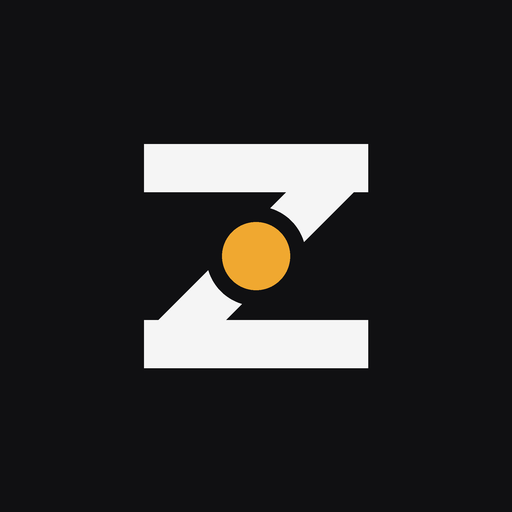
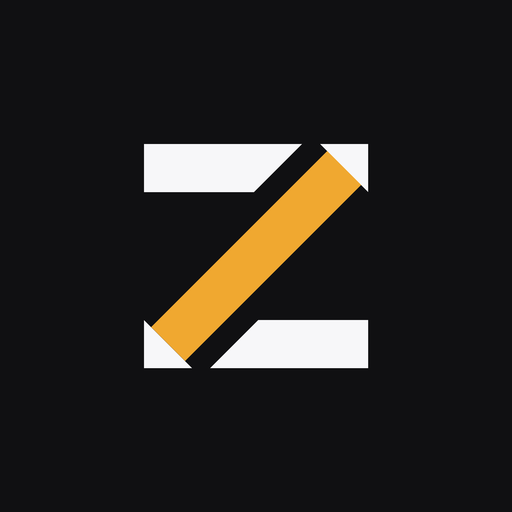
feat(zeno): el icono, segunda vuelta, con la diagonal ambar cruzando
El operador rechazo el primero: *"el logo se ve muy pobre"*. Tenia razon y el
diagnostico es concreto: era una Z de tres barras del mismo grosor, sin ninguna
idea dentro. Los dos vecinos si la tienen, y por eso funcionan: Zenvrax juega con
dos pesos y remata con un punto, Xrise convierte un brazo de la X en flecha.

Elegido de cuatro propuestas mirandolas a 140 y a 48px: dos barras blancas y la
diagonal en AMBAR cruzando por encima, con aire negro a los lados. Es el mismo
recurso que el cockpit, donde la X verde pasa sobre las barras: dos pesos y dos
colores, que es lo que hace que un glifo se lea de lejos.

El favicon va ENTERO en ambar: a 32px los dos colores se empastan y la Z deja de
leerse. Abierto el PNG se veia una mancha. Un favicon no es el icono grande
reducido.

El manifiesto cambia su ?v= porque el navegador sirve el icono viejo de su cache.
Y para la PWA ya instalada no basta: hay que desinstalar y volver a instalar, como
paso con Xrise en septiembre.

diff --git a/marca/genera_iconos.py b/marca/genera_iconos.py
@@ -1,80 +1,81 @@
 # -*- coding: utf-8 -*-
-"""La opcion C elegida por el operador, afinada para que aguante los 48px.
+"""El icono de Zeno. Se GENERA, nunca se edita a mano.
 
-Al ensenarle las cuatro le dije que en la C el punto casi desaparece a 48px, que es el tamano al que
-se mira en la pantalla de inicio. Eligio la C, asi que el trabajo ahora es que eso deje de ser
-verdad, no repetir la pega: el punto crece, el anillo que lo separa de la Z se ajusta para que no
-parta la diagonal, y se comprueba ABRIENDO el png a 48, no calculandolo.
+    python lab/zeno/marca/genera_iconos.py
+
+EL DISEÑO, elegido por el operador el 2026-09-27 en segunda vuelta: dos barras blancas y la
+diagonal en AMBAR cruzando por encima, con un hueco de aire a los lados.
+
+Es el mismo recurso que usa el icono del cockpit, donde la X verde cruza sobre las barras blancas:
+dos pesos y dos colores, que es lo que hace que un glifo se lea de lejos. La primera version era una
+Z de tres barras del mismo grosor, y el operador la rechazo con razon: *"el logo se ve muy pobre"*.
+No tenia ninguna idea dentro, mientras que Zenvrax juega con dos pesos y un punto, y Xrise convierte
+un brazo de la X en flecha.
+
+El AMBAR no esta en ninguno de los dos iconos vecinos (Zenvrax es verde lima, Xrise morado y cian),
+asi que los tres se distinguen en la misma pantalla de inicio.
+
+TRES COSAS QUE SALIERON DE ABRIR LOS PNG, no de calcularlos:
+
+1. La diagonal salia mas fina que las barras cuando se dibujaba con un poligono desplazado en
+   horizontal: en una diagonal de 25 grados, ese desplazamiento no es el grosor. Se dibuja con
+   `line(width=)`, que si da el grosor perpendicular.
+2. El maskable se leia como una C. Android le recorta un circulo, asi que el glifo se mete en la
+   zona segura; el hueco de aire tiene que encogerse CON el, no quedarse con su tamaño de siempre.
+3. A 32px el aire negro alrededor de la diagonal se come la letra. El favicon va SIN hueco y con la
+   diagonal tocando las barras: un favicon no es el icono grande reducido, es una version
+   simplificada a proposito.
 """
 from PIL import Image, ImageDraw
 
-E = 4
+E = 6                      # se dibuja a 6x y se reduce: la diagonal pide muestreo
 NEGRO = (16, 16, 18)
-BLANCO = (245, 245, 245)
+BLANCO = (247, 247, 249)
 AMBAR = (240, 168, 48)
 
-
-def zeno(lado=192, punto=13, anillo=20, maskable=False):
-    """El icono. `punto` y `anillo` en unidades de 192 para poder probar tamanos."""
-    img = Image.new("RGBA", (lado * E, lado * E), (0, 0, 0, 0))
-    d = ImageDraw.Draw(img)
-    caja = [0, 0, lado * E - 1, lado * E - 1]
-    if maskable:
-        # maskable: el sistema recorta un circulo, asi que el fondo llena el cuadrado entero y el
-        # glifo se encoge para caber en la zona segura (el 80% central).
-        d.rectangle(caja, fill=NEGRO)
-    else:
-        d.rounded_rectangle(caja, radius=int(lado * E * 0.22), fill=NEGRO)
-
-    k = lado / 192.0
-    if maskable:
-        margen = 54          # Android le recorta un circulo: el glifo se mete en la zona segura
-    elif lado <= 48:
-        # A 32px el margen normal se come la letra. Los favicon se dibujan mas llenos a proposito:
-        # no son el icono grande reducido, son una version simplificada.
-        margen = 16
-    else:
-        margen = 40
-    # El punto tiene que encogerse CON el glifo, no con el lienzo. Sin esto, el maskable salia con
-    # la Z reducida y el punto del tamano de siempre: se comia la diagonal entera y la letra se leia
-    # como una C. Se vio abriendo el PNG de 512, no calculandolo.
-    encoge = (192 - 2 * margen) / (192 - 2 * 40)
-    g = int(24 * k * E * encoge)
-    i, f = int(margen * k * E), int((192 - margen) * k * E)
-    a, b = int(margen * k * E), int((192 - margen) * k * E)
-    tinta = AMBAR if lado <= 48 else BLANCO
-    d.rectangle([i, a, f, a + g], fill=tinta)
-    d.rectangle([i, b - g, f, b], fill=tinta)
-    d.line([(f - g // 2, a + g // 2), (i + g // 2, b - g // 2)], fill=tinta, width=g)
-
-    if lado <= 48:
-        # A 32px el punto no simplifica, DESTRUYE: se come la diagonal y la Z queda en una mancha.
-        # Abierto a ese tamano no se distinguia la letra. La version chica es la Z entera en ambar,
-        # que conserva el color de la marca y se lee. Comprobado abriendo los tres candidatos.
-        return img.resize((lado, lado), Image.LANCZOS)
-    centro = (lado * E // 2, lado * E // 2)
-    for radio, color in ((int(anillo * k * E * encoge), NEGRO),
-                         (int(punto * k * E * encoge), AMBAR)):
-        d.ellipse([centro[0] - radio, centro[1] - radio, centro[0] + radio, centro[1] + radio],
-                  fill=color)
-    return img.resize((lado, lado), Image.LANCZOS)
-
-
-#: El tamano de punto elegido: 17 sobre 192. Se probaron 13, 17 y 21 mirando los PNG a 48px, que es
-#: como se ve en la pantalla de inicio. Con 13 el punto casi no esta; con 21 se come la diagonal y la
-#: Z se parte en dos. Con 17 se ve y la letra sigue entera.
-PUNTO, ANILLO = 17, 25
-
-#: Lo que hace falta para una PWA instalable, clonado del cockpit y de Xrise, que ya lo tienen.
+#: Lo que hace falta para una PWA instalable, clonado del cockpit y de Xrise.
 JUEGO = [
     ("icon-192.png", 192, False),
     ("icon-512.png", 512, False),
-    ("icon-512-maskable.png", 512, True),   # Android le recorta un circulo: glifo mas adentro
+    ("icon-512-maskable.png", 512, True),   # Android le recorta un circulo
     ("apple-touch-icon.png", 180, False),
     ("favicon.png", 32, False),
 ]
 
+
+def zeno(lado: int = 192, maskable: bool = False) -> Image.Image:
+    img = Image.new("RGBA", (lado * E, lado * E), (0, 0, 0, 0))
+    d = ImageDraw.Draw(img)
+    caja = [0, 0, lado * E - 1, lado * E - 1]
+    if maskable:
+        d.rectangle(caja, fill=NEGRO)      # el fondo llena el cuadrado: el sistema recorta
+    else:
+        d.rounded_rectangle(caja, radius=int(lado * E * 0.22), fill=NEGRO)
+
+    chico = lado <= 48
+    margen = 54 if maskable else (18 if chico else 40)
+    k = lado / 192 * E
+    encoge = (192 - 2 * margen) / 112.0
+    g = 24 * k * encoge
+    i, f = margen * k, (192 - margen) * k
+    a, b = margen * k, (192 - margen) * k
+
+    # A 32px los dos colores no caben: la diagonal ambar sobre barras blancas se empasta y la Z
+    # deja de leerse. Abierto el PNG se veia una mancha. La version chica va ENTERA en ambar, que
+    # conserva el color de la marca y se lee. Un favicon no es el icono grande reducido.
+    tinta = AMBAR if chico else BLANCO
+    d.rectangle([i, a, f, a + g], fill=tinta)
+    d.rectangle([i, b - g, f, b], fill=tinta)
+
+    extremos = [(f - g / 2, a + g / 2), (i + g / 2, b - g / 2)]
+    if not chico:
+        # El aire alrededor de la diagonal: es lo que separa los dos pesos y hace que la Z se lea.
+        d.line(extremos, fill=NEGRO, width=int(g * 1.95))
+    d.line(extremos, fill=tinta if chico else AMBAR, width=int(g))
+    return img.resize((lado, lado), Image.LANCZOS)
+
+
 if __name__ == "__main__":
     for nombre, lado, maskable in JUEGO:
-        zeno(lado, PUNTO, ANILLO, maskable).save(nombre)
+        zeno(lado, maskable).save(nombre)
         print("  ", nombre, f"{lado}x{lado}")

diff --git a/marca/README.md b/marca/README.md
@@ -3,13 +3,22 @@
 El icono lo eligió el operador el 2026-09-27 entre cuatro propuestas, mirándolas a 140px y a **48px**,
 que es el tamaño al que se ven de verdad en la pantalla de inicio.
 
-**Elegida: la Z blanca con el punto ámbar en el cruce.** El punto no es decorativo: existe en el
-icono del cockpit, en el centro de su X, así que es una firma heredada de la casa.
+**Elegida en SEGUNDA vuelta (27-sep): dos barras blancas y la diagonal en ámbar cruzando por
+encima, con un hueco de aire a los lados.**
+
+La primera versión (Z blanca con un punto ámbar) la rechazó el operador: *"el logo se ve muy
+pobre"*. Tenía razón, y el diagnóstico es concreto: era una Z de tres barras del mismo grosor, sin
+ninguna idea dentro. Los dos vecinos sí la tienen, y por eso funcionan: Zenvrax juega con dos pesos
+y remata con un punto, y Xrise convierte un brazo de la X en flecha.
+
+La diagonal cruzando es el mismo recurso que el cockpit, donde la X verde pasa sobre las barras
+blancas: **dos pesos y dos colores**, que es lo que hace que un glifo se lea de lejos.
 
 ```
-fondo     negro (#101012), esquinas redondeadas al 22%
-glifo     Z de trazo grueso, blanco (#F5F5F5)
-firma     punto ámbar (#F0A830) en el cruce
+fondo     negro, esquinas redondeadas al 22%
+barras    blancas
+diagonal  ambar, por encima y con aire negro a los lados
+favicon   la Z entera en ambar, sin aire: a 32px los dos colores se empastan
 ```
 
 El ámbar se eligió porque **no está en ninguno de los dos iconos existentes**: Zenvrax usa verde
